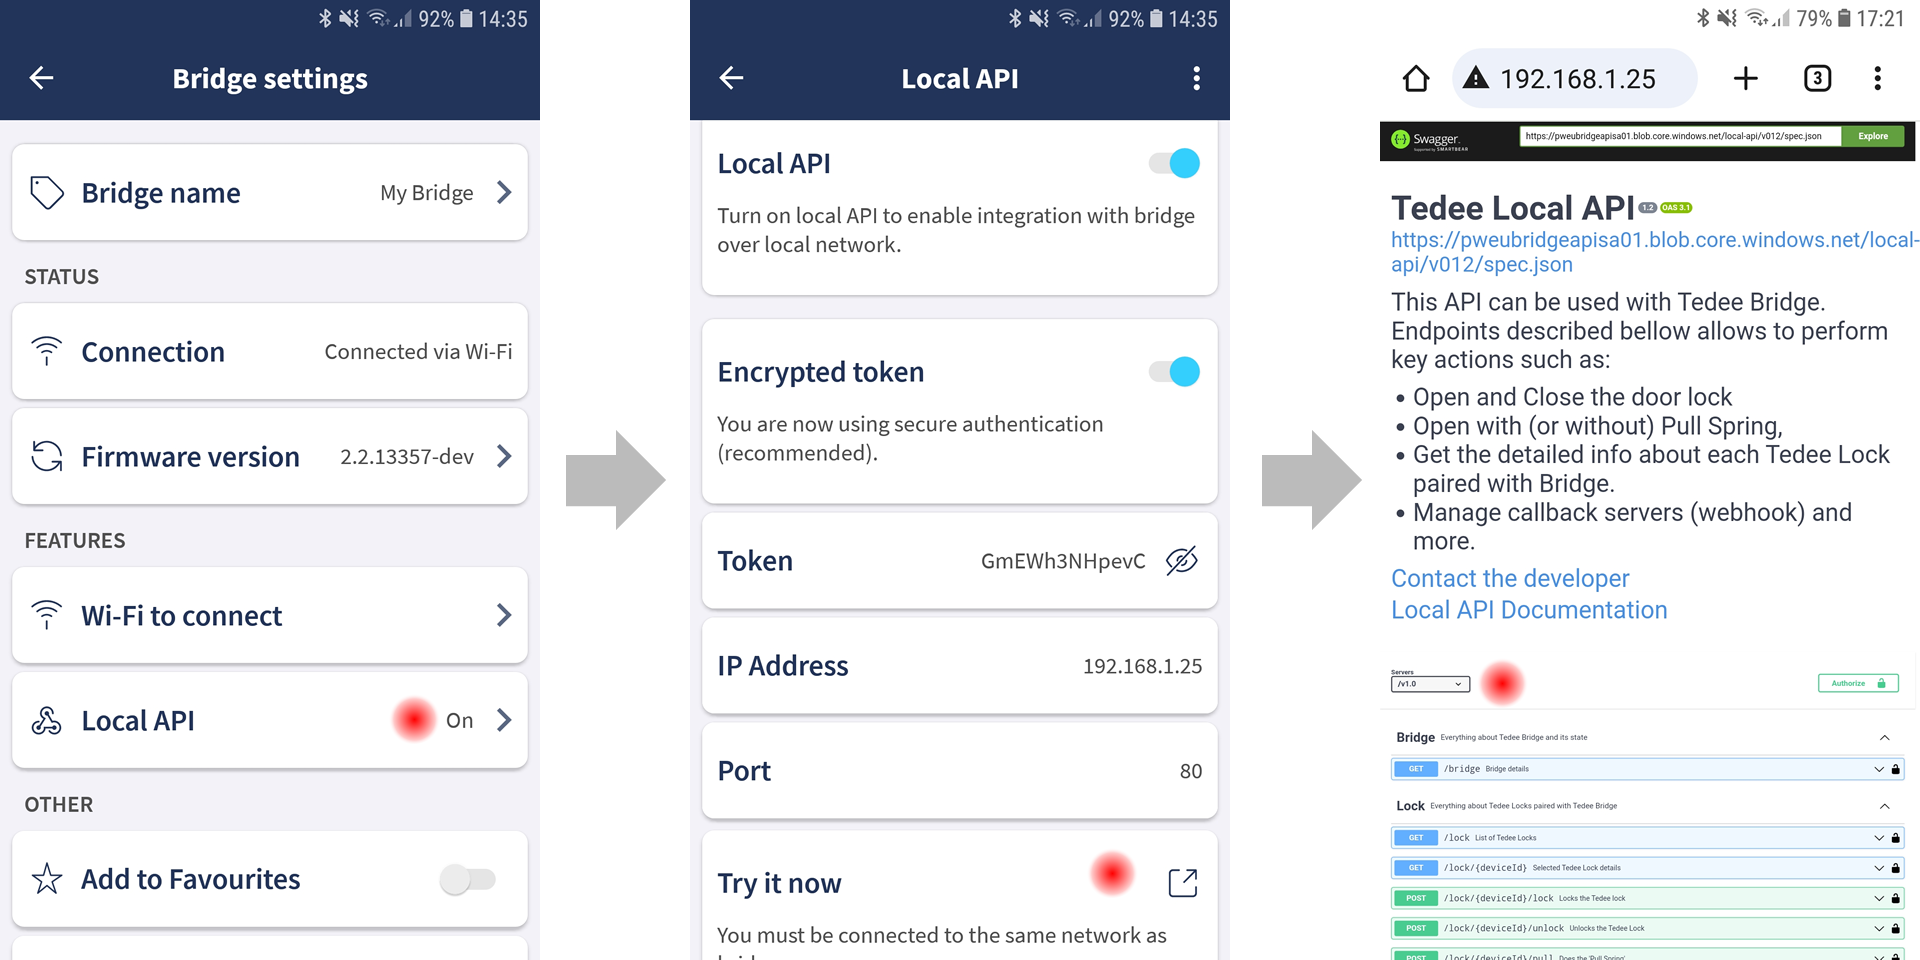
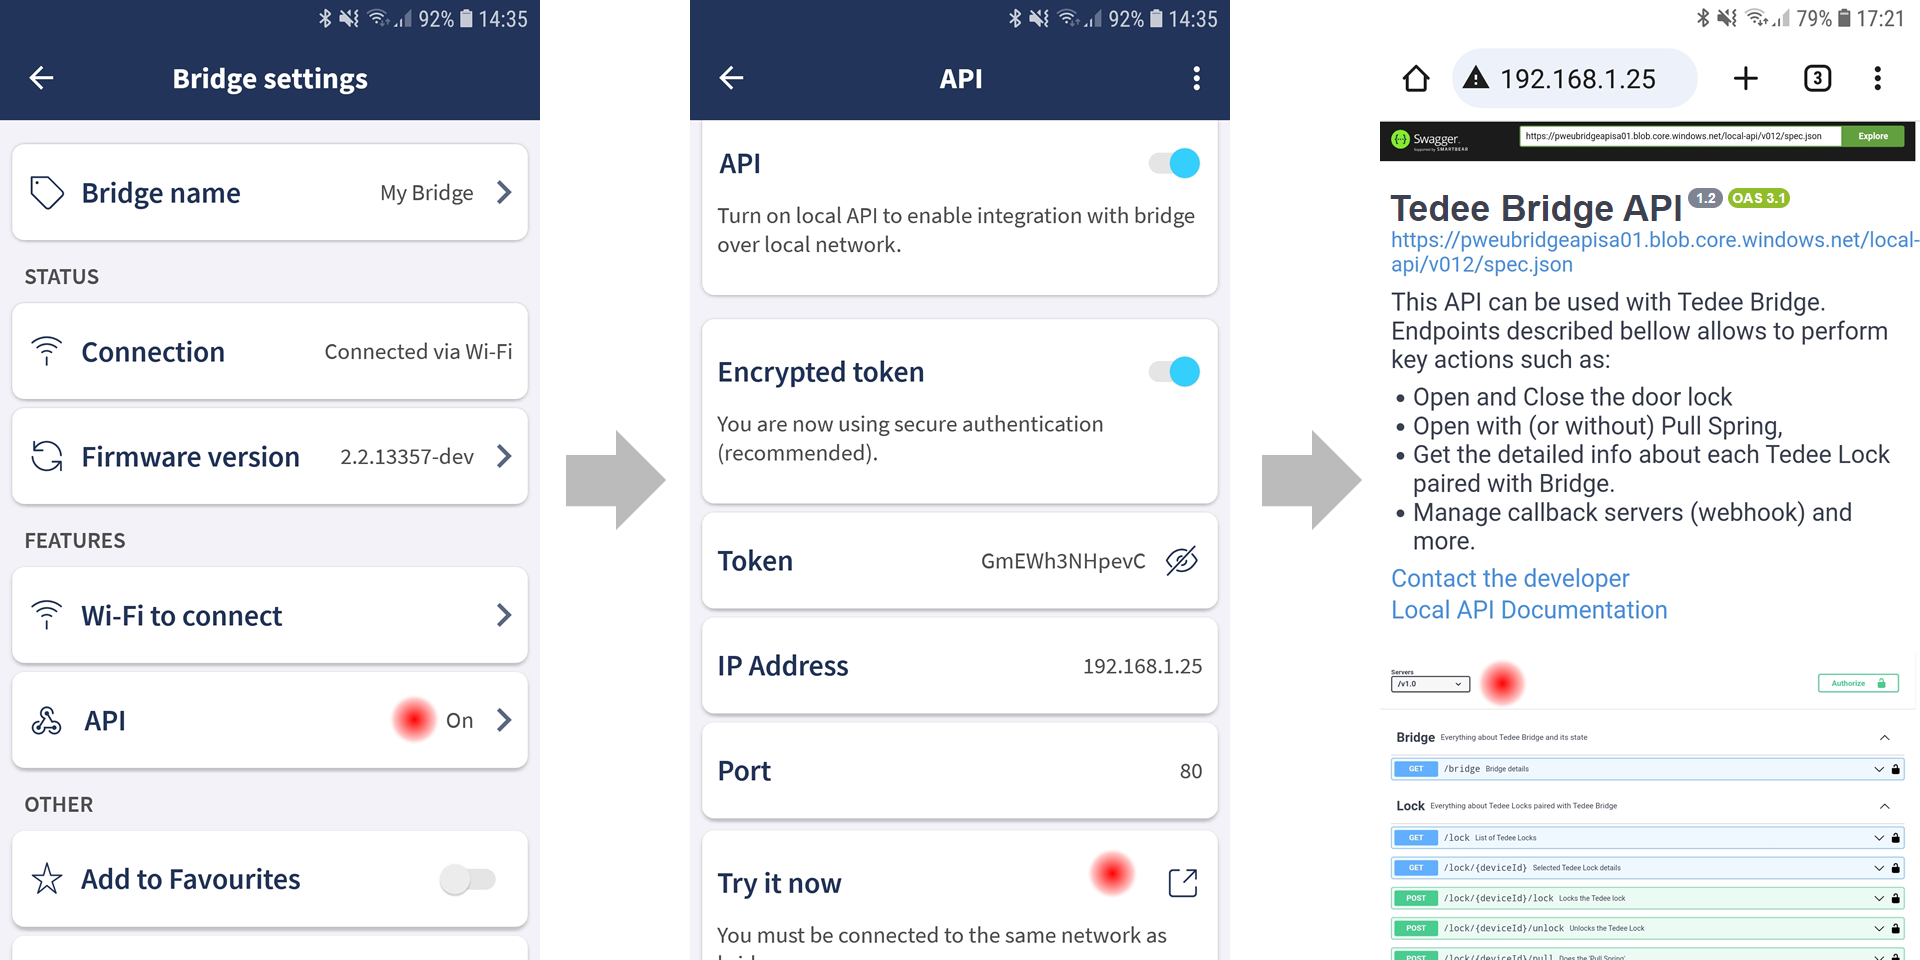
replace local api to api in mobile

diff --git a/overview/getting_started.md b/overview/getting_started.md
@@ -12,7 +12,7 @@ Welcome to the Tedee Bridge API, specifically designed to operate within your lo
 
 ## Enabling Bridge API
 
-Before you can use the API you must enable it on the Bridge using Tedee mobile application. Open Tedee app and go to selected Bridge -> Settings -> Local API -> then toggle the switch button.  
+Before you can use the API you must enable it on the Bridge using Tedee mobile application. Open Tedee app and go to selected Bridge -> Settings -> API -> then toggle the switch button.  
 
 ![Enabling Bridge API in the mobile app](/overview/images/enable_api.png "Enabling Bridge API in the mobile app")  
 
